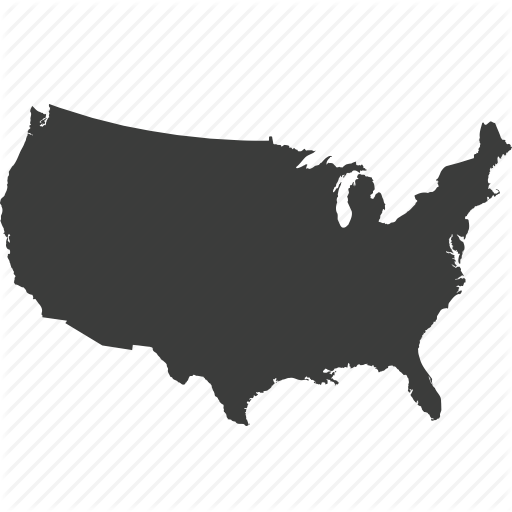
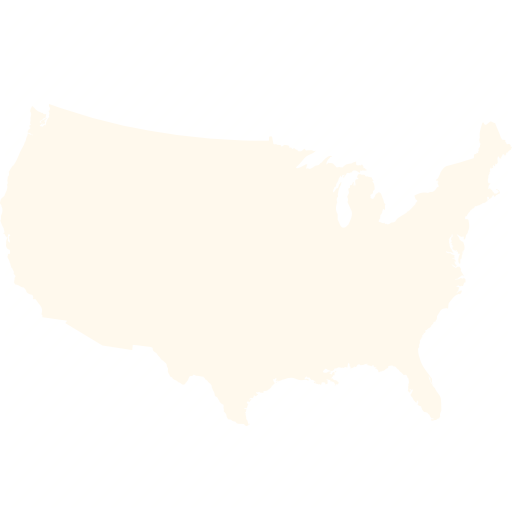
Cream Colored Mini-Map

diff --git a/assets/css/styles.css b/assets/css/styles.css
@@ -6,7 +6,7 @@ a9bcd0 - pale blue - headers
 1b1b1e - black/blue - other background material?*/
 
 /*new colors:
-#23628e - navy - 
+#23628e - navy -
 #d16262 - red - headers?
 #fff9ed - cream - stats background
 #dbdbdb - gray - ?
@@ -76,7 +76,7 @@ section {
 .state-auto {
   position: absolute !important;
   top: 0 !important;
-  color: black !important;
+  color: #fff9ed  !important;
   opacity: 0.5 !important;
   z-index: 3 !important;
   font-size: 40px !important;
@@ -84,7 +84,7 @@ section {
 }
 
 input::-webkit-input-placeholder {
-  color: black;
+  color: #fff9ed ;
 }
 
 /*#state-input {
@@ -170,7 +170,7 @@ input::-webkit-input-placeholder {
 }
 
 .map-icon:hover {
-  filter: invert(100%);
+  filter: invert(90%);
 
 }
 
